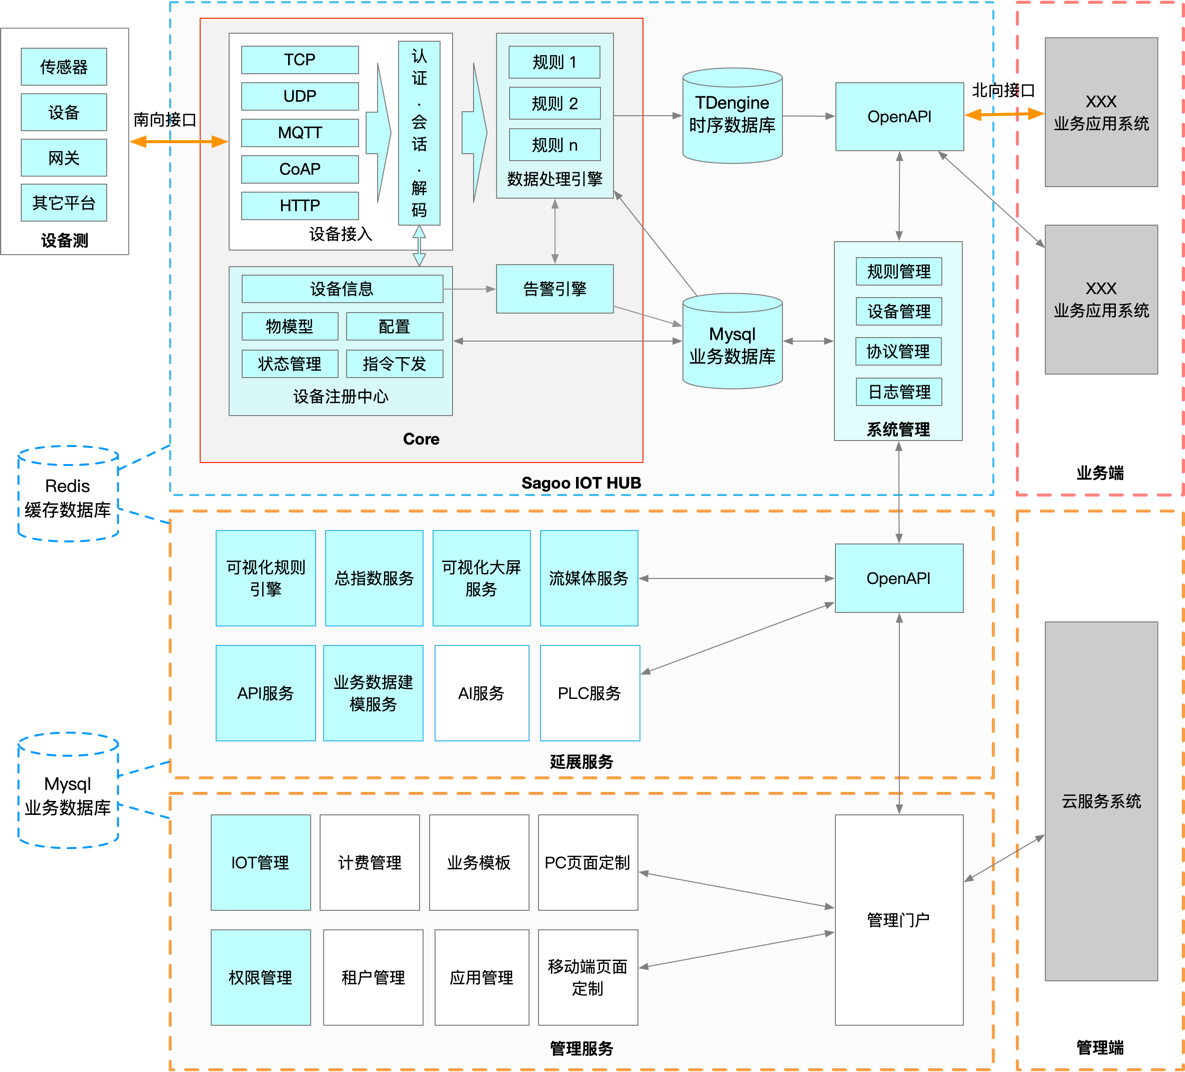
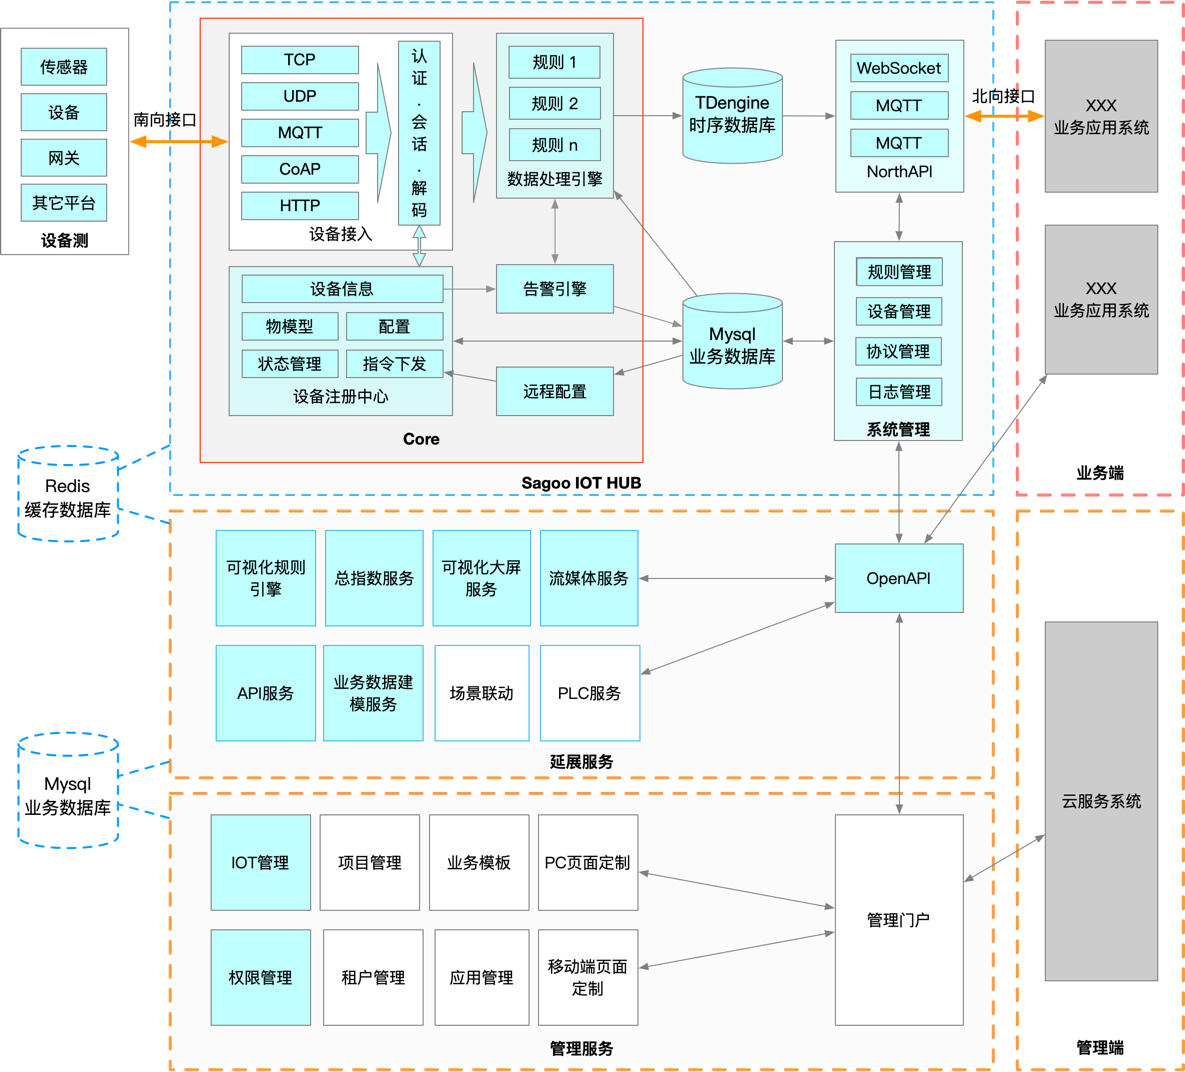
增加场景简要说明，修改总体架构图

diff --git a/guide/operate/scene.md b/guide/operate/scene.md
@@ -1,0 +1,27 @@
+# 场景联动
+
+场景是一组由设备状态或事件构建的规则，每个场景都能对应到实际业务中的某种特殊情况，这类情况需要多个条件联合判断。例如，判断生产线是否出现异常这一场景，可能需要基于温度、振动、噪声和转速等多种数据进行综合分析，以判断是否需要工程师进行检查和维修。一旦场景定义的规则被触发，会执行预先设置的相应对作，比如打开某个设备，或是设置某个设备的属性等，也可以向预设的联系人或联系人组发送异常通知。接收到通知的联系人可以迅速采取行动，以防止异常情况进一步升级导致损失。该文档将指导你如何管理场景规则，以便实现对异常事件的及时响应。
+
+## 场景运行原理
+在事件响应服务中，场景规则遵循以下运行机制：
+
+1. 事件触发：触发事件可以被种类繁多的情况触发，这包括设备在线状态变更、物模型属性的上报，以及特定定时事件和满足特定条件的自定义API事件。例如，设备上报的温度超过预设值，如45摄氏度。
+2. 条件核查：一旦触发了场景事件，会接着核查其他指定的条件是否达成。例如，当上报设备的温度超过45摄氏度时，系统会同时检查设备的功率是否超过300瓦，以及是否处在连续运行超过5小时的状态。
+3. 动作执行：只有当触发事件并且核查的所有条件都满足，才会执行场景规则中所定义的动作。
+
+补图
+
+
+## 创建场景
+
+
+1. 登录SagooIOT平台，选择**设备运维** > **场景联动**，进入场景联动页面。
+2. 单击**创建场景**，进入创建场景页面。
+3. 在**基本信息**区域，输入场景名称和描述信息。
+4. 在**触发事件**区域，选择触发场景的事件类型。目前，支持以下事件类型：
+   * 设备上下线
+   * 设备属性上报
+   * 定时事件
+   * 自定义API事件
+   * 设备告警事件 
+5. 在**触发条件**区域，选择触发场景的条件类型。目前，支持以下条件类型：

diff --git a/guide/operate/remoteconf.md b/guide/operate/remoteconf.md
@@ -38,6 +38,7 @@
 
 在物联网平台控制台，向某一产品下的所有设备批量推送配置文件。
 ![远程配置场景一](../../public/imgs/guide/operate/p001.png)
+
 1. 设备上线。
 
    需配置设备端订阅推送配置信息的Topic：`/sys/${productKey}/${deviceKey}/thing/config/push`。
